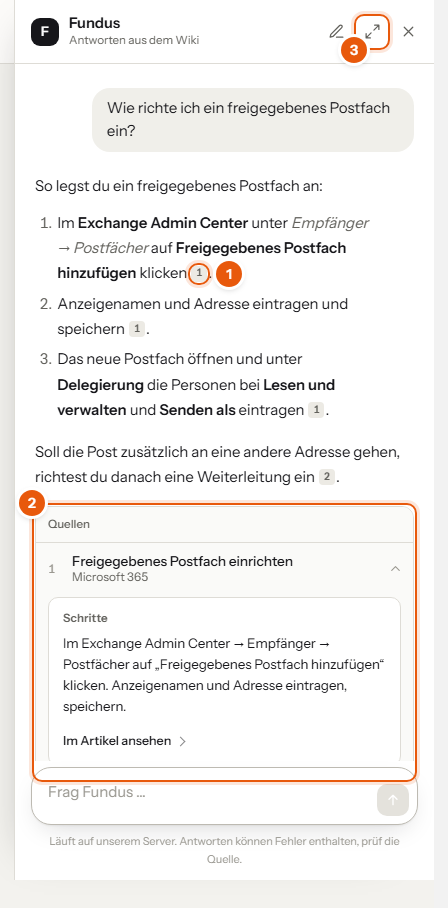
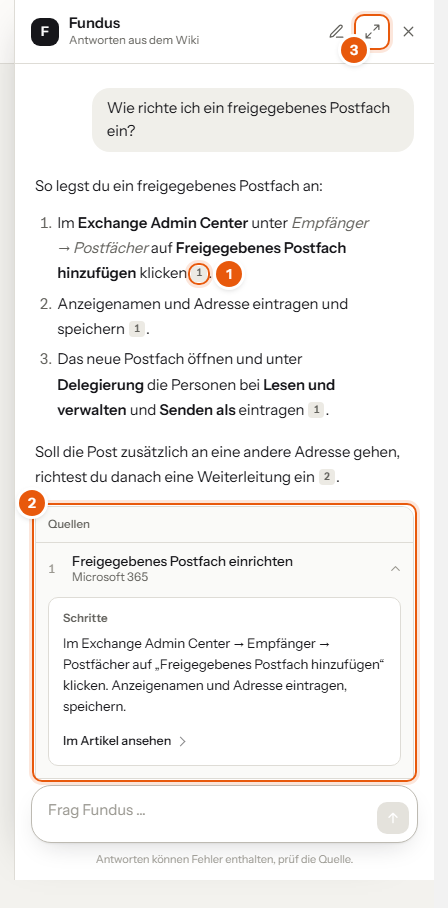
Chat-Fuß in einer Zeile
In der Seitenleiste brach der Hinweis unter dem Eingabefeld um, „Quelle.“ stand allein in der zweiten Zeile. Er lautet jetzt nur noch „Antworten können Fehler enthalten, prüf die Quelle.“ (Entscheidung nach Vorschaubildern). Die beiden Handbuch-Bilder des Chats sind neu aufgenommen.

Changed region(s): [[0.0625, 0.8326, 0.9375, 0.9559]]

diff --git a/theme/fundus/fundus/ki.blade.php b/theme/fundus/fundus/ki.blade.php
@@ -68,7 +68,7 @@
                             <svg class="stopp" viewBox="0 0 24 24" aria-hidden="true"><rect x="7" y="7" width="10" height="10" rx="2" fill="currentColor"/></svg>
                         </button>
                     </div>
-                    <p class="fundus-ki-fuss">Läuft auf unserem Server. Antworten können Fehler enthalten, prüf die Quelle.</p>
+                    <p class="fundus-ki-fuss">Antworten können Fehler enthalten, prüf die Quelle.</p>
                 </form>
             </div>
 

diff --git a/CHANGELOG.md b/CHANGELOG.md
@@ -34,6 +34,8 @@ Format nach [Keep a Changelog](https://keepachangelog.com/de/1.1.0/), Versionen 
   Rückmeldung und die ganze Startseite von Fundus. Die Bausteine erkennen ihre Seite jetzt anders und
   holen die Listen selbst; mit älteren Versionen laufen sie weiter.
 - Ollama 0.34.4 (vorher 0.34.2).
+- Der Fuß des Chats sagt nur noch „Antworten können Fehler enthalten, prüf die Quelle.“ und passt
+  damit auch in die schmale Seitenleiste in eine Zeile. Die Handbuch-Bilder des Chats sind neu aufgenommen.
 - Rauchtest, Handbuch-Bilder und Vorstellungsbilder steuern Chrome über ein gemeinsames Modul
   `skripte/wiki-browser.mjs` statt über drei fast gleiche Kopien. Ihre Hilfsskripte im Wiki-Container
   räumen jetzt alle drei wieder ab.
